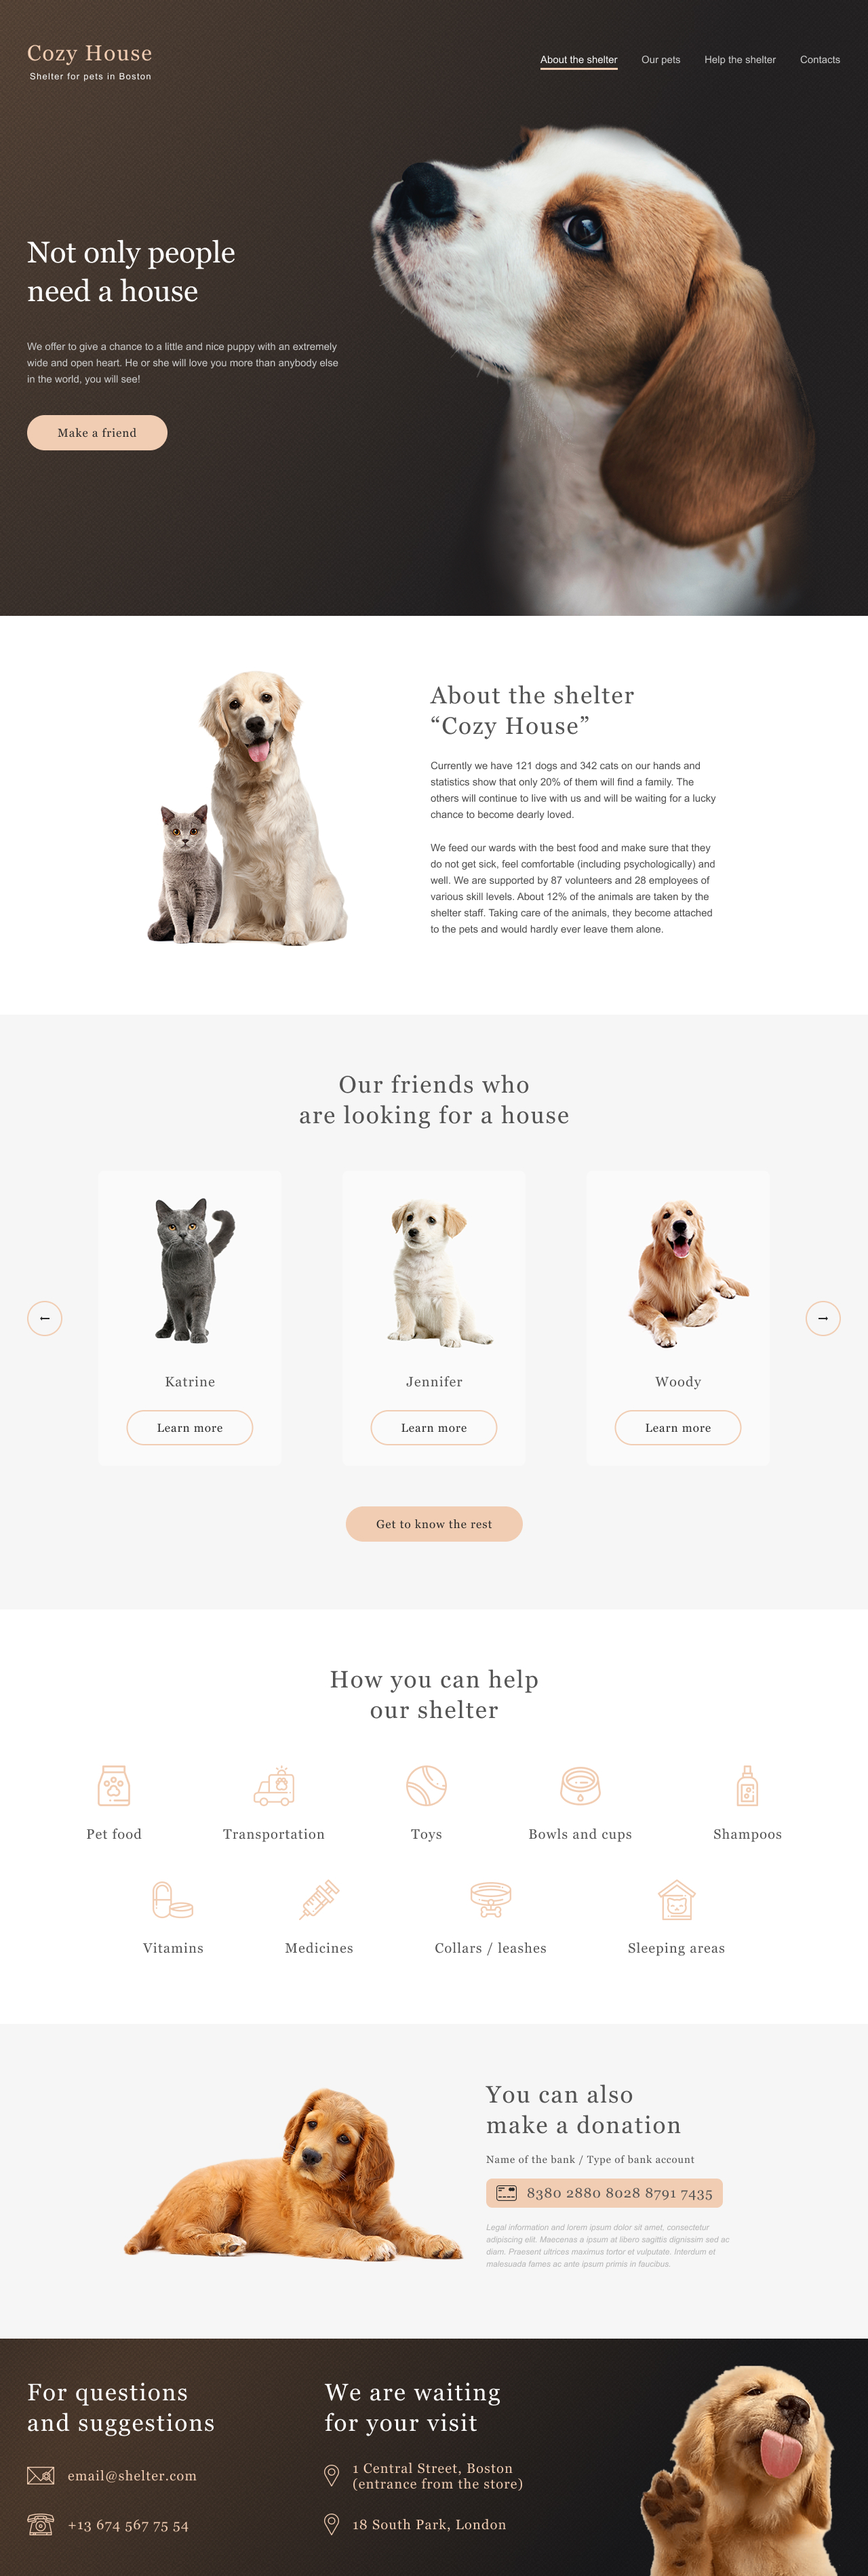
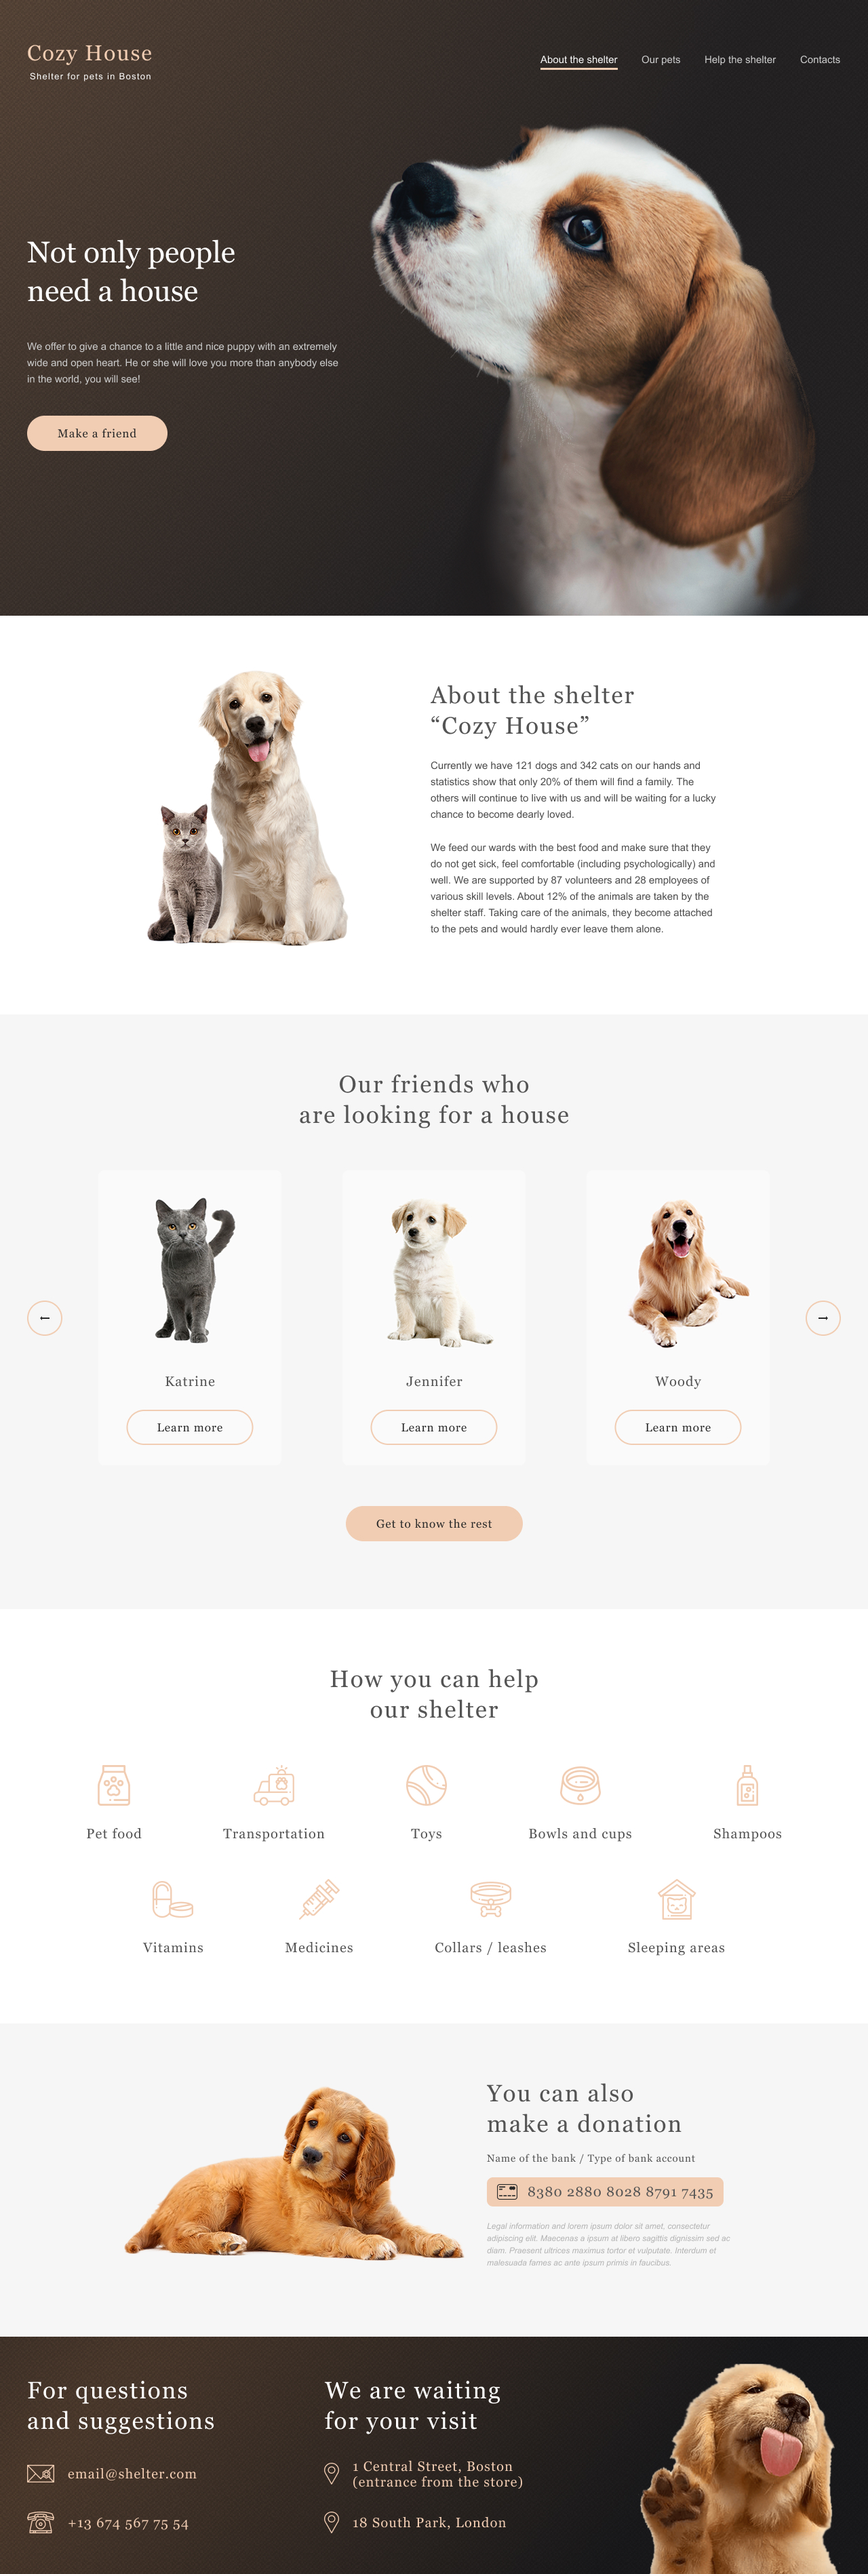
feat: our-pets-768 - хидер поправил

diff --git a/shelter/pages/pets/pets.css b/shelter/pages/pets/pets.css
@@ -38,8 +38,16 @@
   margin: 0 auto;
   padding: 30px 40px;
   width: 1280px;
+  width: auto;
   min-height: 120px;
   background: #FFFFFF;
+}
+
+@media (max-width: 800px) {
+  .header-container {
+    width: auto;
+    padding: 30px 30px;
+  }
 }
 
 .header-logo__tittle {

diff --git a/shelter/pages/pets/pets.scss b/shelter/pages/pets/pets.scss
@@ -16,9 +16,16 @@
   padding: 30px 40px;
 
   width: 1280px;
+  width: auto;
+
   min-height: 120px;
 
   background: $color-light-xl ;
+
+  @media (max-width:$breakpoint-m) {
+    width: auto;
+    padding: 30px 30px;
+  }
 }
 @import '../main/header';
 

diff --git a/shelter/pages/main/_all.scss b/shelter/pages/main/_all.scss
@@ -13,7 +13,8 @@ $color-dark-m: #B2B2B2;
 $color-dark-2xl: #444444;
 $color-dark-3xl: #292929;
 
-
+$breakpoint-m:800px;
+$breakpoint-s:400px;
 
 %local-h3{
   font-family: Georgia;
